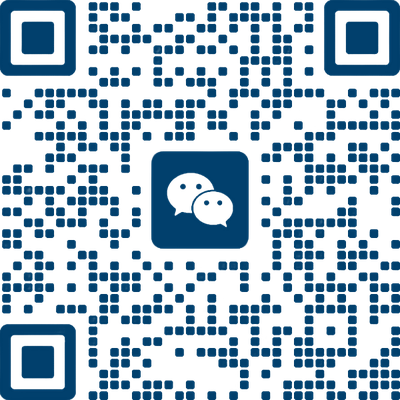
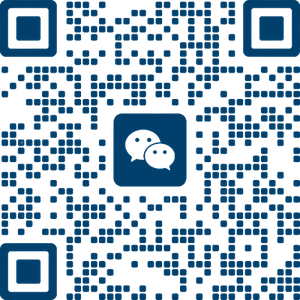
二维码尺寸改为300x300，右移10cm

diff --git a/source/首页(source).html b/source/首页(source).html
@@ -308,8 +308,8 @@ layout: false
     .qrcode-dt p { font-size: 0.92rem; color: var(--dt-text-light); margin-bottom: 1rem; }
     .qrcode-dt img { width: 180px; border-radius: 6px; margin: 0 auto; }
     .contact-section-outer { position: relative; }
-    .contact-qrcode-right { position: absolute; right: 5cm; top: 50%; transform: translateY(-50%); text-align: center; }
-    .contact-qrcode-right img { width: 200px; height: 200px; }
+    .contact-qrcode-right { position: absolute; right: 10cm; top: 50%; transform: translateY(-50%); text-align: center; }
+    .contact-qrcode-right img { width: 300px; height: 300px; }
     .contact-qrcode-right p { font-size: 0.85rem; margin-top: 0.5rem; color: var(--dt-text-light); }
 
     /* CTA */
